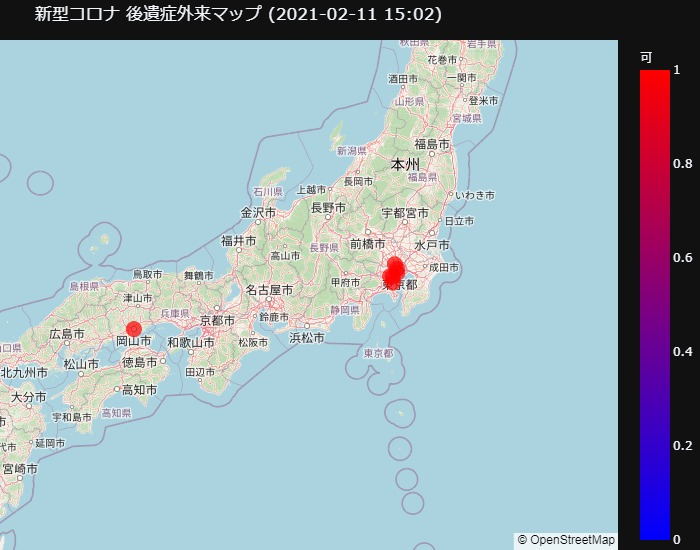
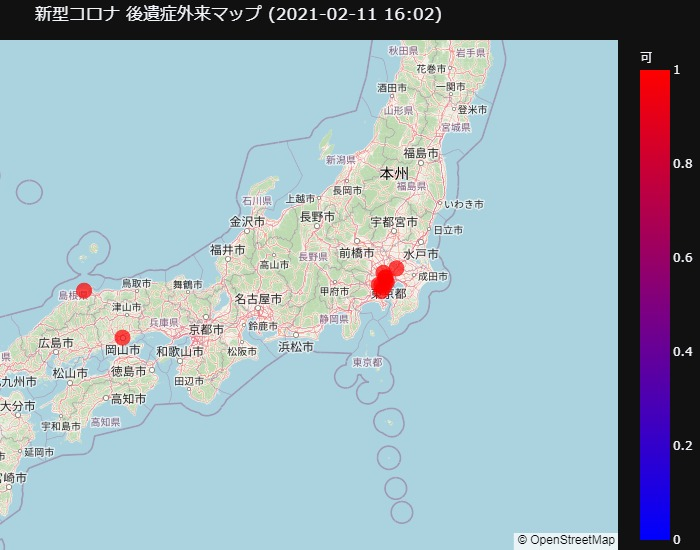
Updated with latest data.

diff --git a/docs/_includes/longcovid-map.html b/docs/_includes/longcovid-map.html
@@ -1,1 +1,1 @@
-<div>                            <div id="592b5aab-4c00-4bf9-a63b-da9fe03f601c" class="plotly-graph-div" style="height:550px; width:100%;"></div>            <script type="text/javascript">                                    window.PLOTLYENV=window.PLOTLYENV || {};                                    if (document.getElementById("592b5aab-4c00-4bf9-a63b-da9fe03f601c")) {                    Plotly.newPlot(                        "592b5aab-4c00-4bf9-a63b-da9fe03f601c",                        [{"customdata": [["\u53ef", "-", "\u521d\u8a3a\u3067\u3082\u53ef"], ["-", "-", "2\u301c3\u30ab\u6708\u7d4c\u904e\u3001\u8af8\u75c7\u72b6\u6709"], ["\u53ef", "-", "-"], ["-", "\u5fc5\u8981", "2\u30ab\u6708\u4ee5\u4e0a\u7d4c\u904e"], ["-", "-", "\u6765\u9662\u304c\u57fa\u672c"], ["\u53ef", "-", "-"], ["-", "\u5fc5\u8981", "1\u30ab\u6708\u4ee5\u4e0a\u7d4c\u904e"], ["-", "-", "-"]], "hovertemplate": "<b>%{hovertext}</b><br><br>\u53ef=%{marker.color}<br>\u7def\u5ea6=%{lat}<br>\u7d4c\u5ea6=%{lon}<br>\u30aa\u30f3\u30e9\u30a4\u30f3=%{customdata[0]}<br>\u7d39\u4ecb\u72b6=%{customdata[1]}<br>\u6761\u4ef6=%{customdata[2]}<extra></extra>", "hovertext": ["\u30d2\u30e9\u30cf\u30bf\u30af\u30ea\u30cb\u30c3\u30af", "\u3082\u3061\u3065\u304d\u8033\u9f3b\u54bd\u5589\u79d1", "\u516c\u5e73\u75c5\u9662", "\u8056\u30de\u30ea\u30a2\u30f3\u30ca\u533b\u79d1\u5927\u5b66\u75c5\u9662", "\u6a2a\u6d5c\u304b\u3093\u3060\u3044\u3058\u30d5\u30a1\u30df\u30ea\u30fc\u30af\u30ea\u30cb\u30c3\u30af", "\u68b6\u304c\u8c37\u99c5\u524d\u30af\u30ea\u30cb\u30c3\u30af", "\u5ca1\u5c71\u5927\u5b66\u75c5\u9662", "\u5929\u795e\u3051\u3084\u304d\u30af\u30ea\u30cb\u30c3\u30af"], "lat": [35.66099144, 35.73184532, 35.81312769, 35.60075469, 35.48523182, 35.5937929, 34.65090647, 33.58607487], "legendgroup": "", "lon": [139.70208080000003, 139.7026409, 139.6527044, 139.5488861, 139.61037869999998, 139.6063036, 133.9206308, 130.3950466], "marker": {"color": [1, 1, 1, 1, 1, 1, 1, 0], "coloraxis": "coloraxis", "size": [1, 1, 1, 1, 1, 1, 1, 0], "sizemode": "area", "sizeref": 0.006944444444444444}, "mode": "markers", "name": "", "showlegend": false, "subplot": "mapbox", "type": "scattermapbox"}],                        {"coloraxis": {"colorbar": {"title": {"text": "\u53ef"}}, "colorscale": [[0.0, "rgb(0,0,255)"], [1.0, "rgb(255,0,0)"]]}, "height": 550, "legend": {"itemsizing": "constant", "tracegroupgap": 0}, "mapbox": {"center": {"lat": 35.26534065, "lon": 137.76733398750002}, "domain": {"x": [0.0, 1.0], "y": [0.0, 1.0]}, "style": "open-street-map", "zoom": 5}, "margin": {"b": 0, "l": 0, "r": 0, "t": 40}, "template": {"data": {"bar": [{"error_x": {"color": "#f2f5fa"}, "error_y": {"color": "#f2f5fa"}, "marker": {"line": {"color": "rgb(17,17,17)", "width": 0.5}}, "type": "bar"}], "barpolar": [{"marker": {"line": {"color": "rgb(17,17,17)", "width": 0.5}}, "type": "barpolar"}], "carpet": [{"aaxis": {"endlinecolor": "#A2B1C6", "gridcolor": "#506784", "linecolor": "#506784", "minorgridcolor": "#506784", "startlinecolor": "#A2B1C6"}, "baxis": {"endlinecolor": "#A2B1C6", "gridcolor": "#506784", "linecolor": "#506784", "minorgridcolor": "#506784", "startlinecolor": "#A2B1C6"}, "type": "carpet"}], "choropleth": [{"colorbar": {"outlinewidth": 0, "ticks": ""}, "type": "choropleth"}], "contour": [{"colorbar": {"outlinewidth": 0, "ticks": ""}, "colorscale": [[0.0, "#0d0887"], [0.1111111111111111, "#46039f"], [0.2222222222222222, "#7201a8"], [0.3333333333333333, "#9c179e"], [0.4444444444444444, "#bd3786"], [0.5555555555555556, "#d8576b"], [0.6666666666666666, "#ed7953"], [0.7777777777777778, "#fb9f3a"], [0.8888888888888888, "#fdca26"], [1.0, "#f0f921"]], "type": "contour"}], "contourcarpet": [{"colorbar": {"outlinewidth": 0, "ticks": ""}, "type": "contourcarpet"}], "heatmap": [{"colorbar": {"outlinewidth": 0, "ticks": ""}, "colorscale": [[0.0, "#0d0887"], [0.1111111111111111, "#46039f"], [0.2222222222222222, "#7201a8"], [0.3333333333333333, "#9c179e"], [0.4444444444444444, "#bd3786"], [0.5555555555555556, "#d8576b"], [0.6666666666666666, "#ed7953"], [0.7777777777777778, "#fb9f3a"], [0.8888888888888888, "#fdca26"], [1.0, "#f0f921"]], "type": "heatmap"}], "heatmapgl": [{"colorbar": {"outlinewidth": 0, "ticks": ""}, "colorscale": [[0.0, "#0d0887"], [0.1111111111111111, "#46039f"], [0.2222222222222222, "#7201a8"], [0.3333333333333333, "#9c179e"], [0.4444444444444444, "#bd3786"], [0.5555555555555556, "#d8576b"], [0.6666666666666666, "#ed7953"], [0.7777777777777778, "#fb9f3a"], [0.8888888888888888, "#fdca26"], [1.0, "#f0f921"]], "type": "heatmapgl"}], "histogram": [{"marker": {"colorbar": {"outlinewidth": 0, "ticks": ""}}, "type": "histogram"}], "histogram2d": [{"colorbar": {"outlinewidth": 0, "ticks": ""}, "colorscale": [[0.0, "#0d0887"], [0.1111111111111111, "#46039f"], [0.2222222222222222, "#7201a8"], [0.3333333333333333, "#9c179e"], [0.4444444444444444, "#bd3786"], [0.5555555555555556, "#d8576b"], [0.6666666666666666, "#ed7953"], [0.7777777777777778, "#fb9f3a"], [0.8888888888888888, "#fdca26"], [1.0, "#f0f921"]], "type": "histogram2d"}], "histogram2dcontour": [{"colorbar": {"outlinewidth": 0, "ticks": ""}, "colorscale": [[0.0, "#0d0887"], [0.1111111111111111, "#46039f"], [0.2222222222222222, "#7201a8"], [0.3333333333333333, "#9c179e"], [0.4444444444444444, "#bd3786"], [0.5555555555555556, "#d8576b"], [0.6666666666666666, "#ed7953"], [0.7777777777777778, "#fb9f3a"], [0.8888888888888888, "#fdca26"], [1.0, "#f0f921"]], "type": "histogram2dcontour"}], "mesh3d": [{"colorbar": {"outlinewidth": 0, "ticks": ""}, "type": "mesh3d"}], "parcoords": [{"line": {"colorbar": {"outlinewidth": 0, "ticks": ""}}, "type": "parcoords"}], "pie": [{"automargin": true, "type": "pie"}], "scatter": [{"marker": {"line": {"color": "#283442"}}, "type": "scatter"}], "scatter3d": [{"line": {"colorbar": {"outlinewidth": 0, "ticks": ""}}, "marker": {"colorbar": {"outlinewidth": 0, "ticks": ""}}, "type": "scatter3d"}], "scattercarpet": [{"marker": {"colorbar": {"outlinewidth": 0, "ticks": ""}}, "type": "scattercarpet"}], "scattergeo": [{"marker": {"colorbar": {"outlinewidth": 0, "ticks": ""}}, "type": "scattergeo"}], "scattergl": [{"marker": {"line": {"color": "#283442"}}, "type": "scattergl"}], "scattermapbox": [{"marker": {"colorbar": {"outlinewidth": 0, "ticks": ""}}, "type": "scattermapbox"}], "scatterpolar": [{"marker": {"colorbar": {"outlinewidth": 0, "ticks": ""}}, "type": "scatterpolar"}], "scatterpolargl": [{"marker": {"colorbar": {"outlinewidth": 0, "ticks": ""}}, "type": "scatterpolargl"}], "scatterternary": [{"marker": {"colorbar": {"outlinewidth": 0, "ticks": ""}}, "type": "scatterternary"}], "surface": [{"colorbar": {"outlinewidth": 0, "ticks": ""}, "colorscale": [[0.0, "#0d0887"], [0.1111111111111111, "#46039f"], [0.2222222222222222, "#7201a8"], [0.3333333333333333, "#9c179e"], [0.4444444444444444, "#bd3786"], [0.5555555555555556, "#d8576b"], [0.6666666666666666, "#ed7953"], [0.7777777777777778, "#fb9f3a"], [0.8888888888888888, "#fdca26"], [1.0, "#f0f921"]], "type": "surface"}], "table": [{"cells": {"fill": {"color": "#506784"}, "line": {"color": "rgb(17,17,17)"}}, "header": {"fill": {"color": "#2a3f5f"}, "line": {"color": "rgb(17,17,17)"}}, "type": "table"}]}, "layout": {"annotationdefaults": {"arrowcolor": "#f2f5fa", "arrowhead": 0, "arrowwidth": 1}, "autotypenumbers": "strict", "coloraxis": {"colorbar": {"outlinewidth": 0, "ticks": ""}}, "colorscale": {"diverging": [[0, "#8e0152"], [0.1, "#c51b7d"], [0.2, "#de77ae"], [0.3, "#f1b6da"], [0.4, "#fde0ef"], [0.5, "#f7f7f7"], [0.6, "#e6f5d0"], [0.7, "#b8e186"], [0.8, "#7fbc41"], [0.9, "#4d9221"], [1, "#276419"]], "sequential": [[0.0, "#0d0887"], [0.1111111111111111, "#46039f"], [0.2222222222222222, "#7201a8"], [0.3333333333333333, "#9c179e"], [0.4444444444444444, "#bd3786"], [0.5555555555555556, "#d8576b"], [0.6666666666666666, "#ed7953"], [0.7777777777777778, "#fb9f3a"], [0.8888888888888888, "#fdca26"], [1.0, "#f0f921"]], "sequentialminus": [[0.0, "#0d0887"], [0.1111111111111111, "#46039f"], [0.2222222222222222, "#7201a8"], [0.3333333333333333, "#9c179e"], [0.4444444444444444, "#bd3786"], [0.5555555555555556, "#d8576b"], [0.6666666666666666, "#ed7953"], [0.7777777777777778, "#fb9f3a"], [0.8888888888888888, "#fdca26"], [1.0, "#f0f921"]]}, "colorway": ["#636efa", "#EF553B", "#00cc96", "#ab63fa", "#FFA15A", "#19d3f3", "#FF6692", "#B6E880", "#FF97FF", "#FECB52"], "font": {"color": "#f2f5fa"}, "geo": {"bgcolor": "rgb(17,17,17)", "lakecolor": "rgb(17,17,17)", "landcolor": "rgb(17,17,17)", "showlakes": true, "showland": true, "subunitcolor": "#506784"}, "hoverlabel": {"align": "left"}, "hovermode": "closest", "mapbox": {"style": "dark"}, "paper_bgcolor": "rgb(17,17,17)", "plot_bgcolor": "rgb(17,17,17)", "polar": {"angularaxis": {"gridcolor": "#506784", "linecolor": "#506784", "ticks": ""}, "bgcolor": "rgb(17,17,17)", "radialaxis": {"gridcolor": "#506784", "linecolor": "#506784", "ticks": ""}}, "scene": {"xaxis": {"backgroundcolor": "rgb(17,17,17)", "gridcolor": "#506784", "gridwidth": 2, "linecolor": "#506784", "showbackground": true, "ticks": "", "zerolinecolor": "#C8D4E3"}, "yaxis": {"backgroundcolor": "rgb(17,17,17)", "gridcolor": "#506784", "gridwidth": 2, "linecolor": "#506784", "showbackground": true, "ticks": "", "zerolinecolor": "#C8D4E3"}, "zaxis": {"backgroundcolor": "rgb(17,17,17)", "gridcolor": "#506784", "gridwidth": 2, "linecolor": "#506784", "showbackground": true, "ticks": "", "zerolinecolor": "#C8D4E3"}}, "shapedefaults": {"line": {"color": "#f2f5fa"}}, "sliderdefaults": {"bgcolor": "#C8D4E3", "bordercolor": "rgb(17,17,17)", "borderwidth": 1, "tickwidth": 0}, "ternary": {"aaxis": {"gridcolor": "#506784", "linecolor": "#506784", "ticks": ""}, "baxis": {"gridcolor": "#506784", "linecolor": "#506784", "ticks": ""}, "bgcolor": "rgb(17,17,17)", "caxis": {"gridcolor": "#506784", "linecolor": "#506784", "ticks": ""}}, "title": {"x": 0.05}, "updatemenudefaults": {"bgcolor": "#506784", "borderwidth": 0}, "xaxis": {"automargin": true, "gridcolor": "#283442", "linecolor": "#506784", "ticks": "", "title": {"standoff": 15}, "zerolinecolor": "#283442", "zerolinewidth": 2}, "yaxis": {"automargin": true, "gridcolor": "#283442", "linecolor": "#506784", "ticks": "", "title": {"standoff": 15}, "zerolinecolor": "#283442", "zerolinewidth": 2}}}, "title": {"text": "\u65b0\u578b\u30b3\u30ed\u30ca \u5f8c\u907a\u75c7\u5916\u6765\u30de\u30c3\u30d7 (2021-02-11 15:02)"}},                        {"responsive": true}                    )                };                            </script>        </div>
+<div>                            <div id="f97fc2c1-4a85-456a-8148-ce885ed87648" class="plotly-graph-div" style="height:550px; width:100%;"></div>            <script type="text/javascript">                                    window.PLOTLYENV=window.PLOTLYENV || {};                                    if (document.getElementById("f97fc2c1-4a85-456a-8148-ce885ed87648")) {                    Plotly.newPlot(                        "f97fc2c1-4a85-456a-8148-ce885ed87648",                        [{"customdata": [["\u53ef", "-", "\u521d\u8a3a\u3067\u3082\u53ef"], ["-", "\u4e00\u65b9", "16\u6b73\u4ee5\u4e0a\u3001\u57fa\u672c\u306f\u6f22\u65b9"], ["-", "-", "2\u301c3\u30ab\u6708\u7d4c\u904e\u3001\u8af8\u75c7\u72b6\u6709"], ["\u53ef", "\u5fc5\u8981", "\u521d\u8a3a\u3067\u3082\u53ef"], ["\u53ef", "-", "-"], ["-", "-", "\u55c5\u899a\u5473\u899a\u969c\u5bb3\u5916\u6765"], ["-", "\u5fc5\u8981", "2\u30ab\u6708\u4ee5\u4e0a\u7d4c\u904e"], ["-", "-", "\u6765\u9662\u304c\u57fa\u672c"], ["\u53ef", "-", "-"], ["-", "-", "\u9694\u96e2\u671f\u9593\u7d42\u4e86"], ["-", "\u5fc5\u8981", "1\u30ab\u6708\u4ee5\u4e0a\u7d4c\u904e"], ["\u53ef", "-", "\u5bfe\u9762\u8a3a\u7642\u306e\u53ef\u80fd\u6027\u6709"], ["-", "-", "-"]], "hovertemplate": "<b>%{hovertext}</b><br><br>\u53ef=%{marker.color}<br>\u7def\u5ea6=%{lat}<br>\u7d4c\u5ea6=%{lon}<br>\u30aa\u30f3\u30e9\u30a4\u30f3=%{customdata[0]}<br>\u7d39\u4ecb\u72b6=%{customdata[1]}<br>\u6761\u4ef6=%{customdata[2]}<extra></extra>", "hovertext": ["\u30d2\u30e9\u30cf\u30bf\u30af\u30ea\u30cb\u30c3\u30af", "\u5bfa\u7530\u30af\u30ea\u30cb\u30c3\u30af", "\u3082\u3061\u3065\u304d\u8033\u9f3b\u54bd\u5589\u79d1", "\u5317\u91cc\u5927\u5b66\u6771\u6d0b\u533b\u5b66\u7dcf\u5408\u7814\u7a76\u6240", "\u516c\u5e73\u75c5\u9662", "\u30af\u30ea\u30cb\u30c3\u30af\u67cf\u306e\u8449", "\u8056\u30de\u30ea\u30a2\u30f3\u30ca\u533b\u79d1\u5927\u5b66\u75c5\u9662", "\u6a2a\u6d5c\u304b\u3093\u3060\u3044\u3058\u30d5\u30a1\u30df\u30ea\u30fc\u30af\u30ea\u30cb\u30c3\u30af", "\u68b6\u304c\u8c37\u99c5\u524d\u30af\u30ea\u30cb\u30c3\u30af", "\u65b0\u5ddd\u5d0e\u3080\u3089\u305b\u5185\u79d1\u5faa\u74b0\u5668\u5185\u79d1", "\u5ca1\u5c71\u5927\u5b66\u75c5\u9662", "\u798f\u7530\u5185\u79d1\u30af\u30ea\u30cb\u30c3\u30af", "\u5929\u795e\u3051\u3084\u304d\u30af\u30ea\u30cb\u30c3\u30af"], "lat": [35.66099144, 35.72952117, 35.73184532, 35.64615518, 35.81312769, 35.89270812, 35.60075469, 35.48523182, 35.5937929, 35.55188904, 34.65090647, 35.49501807, 33.58607487], "legendgroup": "", "lon": [139.70208080000003, 139.6931743, 139.7026409, 139.72627219999998, 139.6527044, 139.9377533, 139.5488861, 139.61037869999998, 139.6063036, 139.6629341, 133.9206308, 133.0761817, 130.3950466], "marker": {"color": [1, 1, 1, 1, 1, 1, 1, 1, 1, 1, 1, 1, 0], "coloraxis": "coloraxis", "size": [1, 1, 1, 1, 1, 1, 1, 1, 1, 1, 1, 1, 0], "sizemode": "area", "sizeref": 0.006944444444444444}, "mode": "markers", "name": "", "showlegend": false, "subplot": "mapbox", "type": "scattermapbox"}],                        {"coloraxis": {"colorbar": {"title": {"text": "\u53ef"}}, "colorscale": [[0.0, "rgb(0,0,255)"], [1.0, "rgb(255,0,0)"]]}, "height": 550, "legend": {"itemsizing": "constant", "tracegroupgap": 0}, "mapbox": {"center": {"lat": 35.418308983076926, "lon": 138.01807596153847}, "domain": {"x": [0.0, 1.0], "y": [0.0, 1.0]}, "style": "open-street-map", "zoom": 5}, "margin": {"b": 0, "l": 0, "r": 0, "t": 40}, "template": {"data": {"bar": [{"error_x": {"color": "#f2f5fa"}, "error_y": {"color": "#f2f5fa"}, "marker": {"line": {"color": "rgb(17,17,17)", "width": 0.5}}, "type": "bar"}], "barpolar": [{"marker": {"line": {"color": "rgb(17,17,17)", "width": 0.5}}, "type": "barpolar"}], "carpet": [{"aaxis": {"endlinecolor": "#A2B1C6", "gridcolor": "#506784", "linecolor": "#506784", "minorgridcolor": "#506784", "startlinecolor": "#A2B1C6"}, "baxis": {"endlinecolor": "#A2B1C6", "gridcolor": "#506784", "linecolor": "#506784", "minorgridcolor": "#506784", "startlinecolor": "#A2B1C6"}, "type": "carpet"}], "choropleth": [{"colorbar": {"outlinewidth": 0, "ticks": ""}, "type": "choropleth"}], "contour": [{"colorbar": {"outlinewidth": 0, "ticks": ""}, "colorscale": [[0.0, "#0d0887"], [0.1111111111111111, "#46039f"], [0.2222222222222222, "#7201a8"], [0.3333333333333333, "#9c179e"], [0.4444444444444444, "#bd3786"], [0.5555555555555556, "#d8576b"], [0.6666666666666666, "#ed7953"], [0.7777777777777778, "#fb9f3a"], [0.8888888888888888, "#fdca26"], [1.0, "#f0f921"]], "type": "contour"}], "contourcarpet": [{"colorbar": {"outlinewidth": 0, "ticks": ""}, "type": "contourcarpet"}], "heatmap": [{"colorbar": {"outlinewidth": 0, "ticks": ""}, "colorscale": [[0.0, "#0d0887"], [0.1111111111111111, "#46039f"], [0.2222222222222222, "#7201a8"], [0.3333333333333333, "#9c179e"], [0.4444444444444444, "#bd3786"], [0.5555555555555556, "#d8576b"], [0.6666666666666666, "#ed7953"], [0.7777777777777778, "#fb9f3a"], [0.8888888888888888, "#fdca26"], [1.0, "#f0f921"]], "type": "heatmap"}], "heatmapgl": [{"colorbar": {"outlinewidth": 0, "ticks": ""}, "colorscale": [[0.0, "#0d0887"], [0.1111111111111111, "#46039f"], [0.2222222222222222, "#7201a8"], [0.3333333333333333, "#9c179e"], [0.4444444444444444, "#bd3786"], [0.5555555555555556, "#d8576b"], [0.6666666666666666, "#ed7953"], [0.7777777777777778, "#fb9f3a"], [0.8888888888888888, "#fdca26"], [1.0, "#f0f921"]], "type": "heatmapgl"}], "histogram": [{"marker": {"colorbar": {"outlinewidth": 0, "ticks": ""}}, "type": "histogram"}], "histogram2d": [{"colorbar": {"outlinewidth": 0, "ticks": ""}, "colorscale": [[0.0, "#0d0887"], [0.1111111111111111, "#46039f"], [0.2222222222222222, "#7201a8"], [0.3333333333333333, "#9c179e"], [0.4444444444444444, "#bd3786"], [0.5555555555555556, "#d8576b"], [0.6666666666666666, "#ed7953"], [0.7777777777777778, "#fb9f3a"], [0.8888888888888888, "#fdca26"], [1.0, "#f0f921"]], "type": "histogram2d"}], "histogram2dcontour": [{"colorbar": {"outlinewidth": 0, "ticks": ""}, "colorscale": [[0.0, "#0d0887"], [0.1111111111111111, "#46039f"], [0.2222222222222222, "#7201a8"], [0.3333333333333333, "#9c179e"], [0.4444444444444444, "#bd3786"], [0.5555555555555556, "#d8576b"], [0.6666666666666666, "#ed7953"], [0.7777777777777778, "#fb9f3a"], [0.8888888888888888, "#fdca26"], [1.0, "#f0f921"]], "type": "histogram2dcontour"}], "mesh3d": [{"colorbar": {"outlinewidth": 0, "ticks": ""}, "type": "mesh3d"}], "parcoords": [{"line": {"colorbar": {"outlinewidth": 0, "ticks": ""}}, "type": "parcoords"}], "pie": [{"automargin": true, "type": "pie"}], "scatter": [{"marker": {"line": {"color": "#283442"}}, "type": "scatter"}], "scatter3d": [{"line": {"colorbar": {"outlinewidth": 0, "ticks": ""}}, "marker": {"colorbar": {"outlinewidth": 0, "ticks": ""}}, "type": "scatter3d"}], "scattercarpet": [{"marker": {"colorbar": {"outlinewidth": 0, "ticks": ""}}, "type": "scattercarpet"}], "scattergeo": [{"marker": {"colorbar": {"outlinewidth": 0, "ticks": ""}}, "type": "scattergeo"}], "scattergl": [{"marker": {"line": {"color": "#283442"}}, "type": "scattergl"}], "scattermapbox": [{"marker": {"colorbar": {"outlinewidth": 0, "ticks": ""}}, "type": "scattermapbox"}], "scatterpolar": [{"marker": {"colorbar": {"outlinewidth": 0, "ticks": ""}}, "type": "scatterpolar"}], "scatterpolargl": [{"marker": {"colorbar": {"outlinewidth": 0, "ticks": ""}}, "type": "scatterpolargl"}], "scatterternary": [{"marker": {"colorbar": {"outlinewidth": 0, "ticks": ""}}, "type": "scatterternary"}], "surface": [{"colorbar": {"outlinewidth": 0, "ticks": ""}, "colorscale": [[0.0, "#0d0887"], [0.1111111111111111, "#46039f"], [0.2222222222222222, "#7201a8"], [0.3333333333333333, "#9c179e"], [0.4444444444444444, "#bd3786"], [0.5555555555555556, "#d8576b"], [0.6666666666666666, "#ed7953"], [0.7777777777777778, "#fb9f3a"], [0.8888888888888888, "#fdca26"], [1.0, "#f0f921"]], "type": "surface"}], "table": [{"cells": {"fill": {"color": "#506784"}, "line": {"color": "rgb(17,17,17)"}}, "header": {"fill": {"color": "#2a3f5f"}, "line": {"color": "rgb(17,17,17)"}}, "type": "table"}]}, "layout": {"annotationdefaults": {"arrowcolor": "#f2f5fa", "arrowhead": 0, "arrowwidth": 1}, "autotypenumbers": "strict", "coloraxis": {"colorbar": {"outlinewidth": 0, "ticks": ""}}, "colorscale": {"diverging": [[0, "#8e0152"], [0.1, "#c51b7d"], [0.2, "#de77ae"], [0.3, "#f1b6da"], [0.4, "#fde0ef"], [0.5, "#f7f7f7"], [0.6, "#e6f5d0"], [0.7, "#b8e186"], [0.8, "#7fbc41"], [0.9, "#4d9221"], [1, "#276419"]], "sequential": [[0.0, "#0d0887"], [0.1111111111111111, "#46039f"], [0.2222222222222222, "#7201a8"], [0.3333333333333333, "#9c179e"], [0.4444444444444444, "#bd3786"], [0.5555555555555556, "#d8576b"], [0.6666666666666666, "#ed7953"], [0.7777777777777778, "#fb9f3a"], [0.8888888888888888, "#fdca26"], [1.0, "#f0f921"]], "sequentialminus": [[0.0, "#0d0887"], [0.1111111111111111, "#46039f"], [0.2222222222222222, "#7201a8"], [0.3333333333333333, "#9c179e"], [0.4444444444444444, "#bd3786"], [0.5555555555555556, "#d8576b"], [0.6666666666666666, "#ed7953"], [0.7777777777777778, "#fb9f3a"], [0.8888888888888888, "#fdca26"], [1.0, "#f0f921"]]}, "colorway": ["#636efa", "#EF553B", "#00cc96", "#ab63fa", "#FFA15A", "#19d3f3", "#FF6692", "#B6E880", "#FF97FF", "#FECB52"], "font": {"color": "#f2f5fa"}, "geo": {"bgcolor": "rgb(17,17,17)", "lakecolor": "rgb(17,17,17)", "landcolor": "rgb(17,17,17)", "showlakes": true, "showland": true, "subunitcolor": "#506784"}, "hoverlabel": {"align": "left"}, "hovermode": "closest", "mapbox": {"style": "dark"}, "paper_bgcolor": "rgb(17,17,17)", "plot_bgcolor": "rgb(17,17,17)", "polar": {"angularaxis": {"gridcolor": "#506784", "linecolor": "#506784", "ticks": ""}, "bgcolor": "rgb(17,17,17)", "radialaxis": {"gridcolor": "#506784", "linecolor": "#506784", "ticks": ""}}, "scene": {"xaxis": {"backgroundcolor": "rgb(17,17,17)", "gridcolor": "#506784", "gridwidth": 2, "linecolor": "#506784", "showbackground": true, "ticks": "", "zerolinecolor": "#C8D4E3"}, "yaxis": {"backgroundcolor": "rgb(17,17,17)", "gridcolor": "#506784", "gridwidth": 2, "linecolor": "#506784", "showbackground": true, "ticks": "", "zerolinecolor": "#C8D4E3"}, "zaxis": {"backgroundcolor": "rgb(17,17,17)", "gridcolor": "#506784", "gridwidth": 2, "linecolor": "#506784", "showbackground": true, "ticks": "", "zerolinecolor": "#C8D4E3"}}, "shapedefaults": {"line": {"color": "#f2f5fa"}}, "sliderdefaults": {"bgcolor": "#C8D4E3", "bordercolor": "rgb(17,17,17)", "borderwidth": 1, "tickwidth": 0}, "ternary": {"aaxis": {"gridcolor": "#506784", "linecolor": "#506784", "ticks": ""}, "baxis": {"gridcolor": "#506784", "linecolor": "#506784", "ticks": ""}, "bgcolor": "rgb(17,17,17)", "caxis": {"gridcolor": "#506784", "linecolor": "#506784", "ticks": ""}}, "title": {"x": 0.05}, "updatemenudefaults": {"bgcolor": "#506784", "borderwidth": 0}, "xaxis": {"automargin": true, "gridcolor": "#283442", "linecolor": "#506784", "ticks": "", "title": {"standoff": 15}, "zerolinecolor": "#283442", "zerolinewidth": 2}, "yaxis": {"automargin": true, "gridcolor": "#283442", "linecolor": "#506784", "ticks": "", "title": {"standoff": 15}, "zerolinecolor": "#283442", "zerolinewidth": 2}}}, "title": {"text": "\u65b0\u578b\u30b3\u30ed\u30ca \u5f8c\u907a\u75c7\u5916\u6765\u30de\u30c3\u30d7 (2021-02-11 16:02)"}},                        {"responsive": true}                    )                };                            </script>        </div>

diff --git a/docs/_includes/longcovid-table.html b/docs/_includes/longcovid-table.html
@@ -1,12 +1,12 @@
 <style>
-.MapsTblColNo { width:  80px; }
-.MapsTblColSt { width: 100px; }
+.MapsTblColNo { width:  70px; }
+.MapsTblColSt { width:  90px; }
 .MapsTblColNm { width: 280px; }
-.MapsTblColEn { width:  80px; }
-.MapsTblColOL { width: 100px; }
-.MapsTblColRS { width:  80px; }
-.MapsTblColCd { width: 150px; }
-.MapsTblColHP { width:  60px; }
+.MapsTblColEn { width:  70px; }
+.MapsTblColOL { width:  70px; }
+.MapsTblColRS { width:  70px; }
+.MapsTblColCd { width: 160px; }
+.MapsTblColHP { width:  50px; }
 </style>
 <table border="0">
   <thead style="display: block;" bgcolor="#000000">
@@ -23,11 +23,16 @@
   </thead>
   <tbody style="display: block; overflow-x: hidden; overflow-y: scroll; height: 300px;">
 <tr bgcolor="#606060"><td class="MapsTblColNo">関東</td><td class="MapsTblColSt">東京都</td><td class="MapsTblColNm">ヒラハタクリニック</td><td class="MapsTblColEn">1</td><td class="MapsTblColOL">可</td><td class="MapsTblColRS">-</td><td class="MapsTblColCd">初診でも可</td><td class="MapsTblColHP"><a href="https://www.hirahata-clinic.or.jp/covid19">HP</a></td></tr>
-<tr bgcolor="#000000"><td class="MapsTblColNo">関東</td><td class="MapsTblColSt">東京都</td><td class="MapsTblColNm">もちづき耳鼻咽喉科</td><td class="MapsTblColEn">1</td><td class="MapsTblColOL">-</td><td class="MapsTblColRS">-</td><td class="MapsTblColCd">2〜3カ月経過、諸症状有</td><td class="MapsTblColHP"><a href="http://www.mochizuki-jibika.com/blog/2021/01/post-128-763420.html">HP</a></td></tr>
+<tr bgcolor="#000000"><td class="MapsTblColNo">関東</td><td class="MapsTblColSt">東京都</td><td class="MapsTblColNm">寺田クリニック</td><td class="MapsTblColEn">1</td><td class="MapsTblColOL">-</td><td class="MapsTblColRS">一方</td><td class="MapsTblColCd">16歳以上、基本は漢方</td><td class="MapsTblColHP"><a href="https://sports-clinic.com/archives/2036">HP</a></td></tr>
+<tr bgcolor="#606060"><td class="MapsTblColNo">関東</td><td class="MapsTblColSt">東京都</td><td class="MapsTblColNm">もちづき耳鼻咽喉科</td><td class="MapsTblColEn">1</td><td class="MapsTblColOL">-</td><td class="MapsTblColRS">-</td><td class="MapsTblColCd">2〜3カ月経過、諸症状有</td><td class="MapsTblColHP"><a href="http://www.mochizuki-jibika.com/blog/2021/01/post-128-763420.html">HP</a></td></tr>
+<tr bgcolor="#000000"><td class="MapsTblColNo">関東</td><td class="MapsTblColSt">東京都</td><td class="MapsTblColNm">北里大学東洋医学総合研究所</td><td class="MapsTblColEn">1</td><td class="MapsTblColOL">可</td><td class="MapsTblColRS">必要</td><td class="MapsTblColCd">初診でも可</td><td class="MapsTblColHP"><a href="https://www.kitasato-u.ac.jp/toui-ken/center/online_cold.html">HP</a></td></tr>
 <tr bgcolor="#606060"><td class="MapsTblColNo">関東</td><td class="MapsTblColSt">埼玉県</td><td class="MapsTblColNm">公平病院</td><td class="MapsTblColEn">1</td><td class="MapsTblColOL">可</td><td class="MapsTblColRS">-</td><td class="MapsTblColCd">-</td><td class="MapsTblColHP"><a href="https://kodaira.life/covid19/long-covid.php">HP</a></td></tr>
-<tr bgcolor="#000000"><td class="MapsTblColNo">関東</td><td class="MapsTblColSt">神奈川県</td><td class="MapsTblColNm">聖マリアンナ医科大学病院</td><td class="MapsTblColEn">1</td><td class="MapsTblColOL">-</td><td class="MapsTblColRS">必要</td><td class="MapsTblColCd">2カ月以上経過</td><td class="MapsTblColHP"><a href="https://www.marianna-u.ac.jp/hospital/kanja/specialty/specialty_24.html">HP</a></td></tr>
-<tr bgcolor="#606060"><td class="MapsTblColNo">関東</td><td class="MapsTblColSt">神奈川県</td><td class="MapsTblColNm">横浜かんだいじファミリークリニック</td><td class="MapsTblColEn">1</td><td class="MapsTblColOL">-</td><td class="MapsTblColRS">-</td><td class="MapsTblColCd">来院が基本</td><td class="MapsTblColHP"><a href="https://yokohama-kandaiji-family-clinic.jp/LONG-COVID">HP</a></td></tr>
-<tr bgcolor="#000000"><td class="MapsTblColNo">関東</td><td class="MapsTblColSt">神奈川県</td><td class="MapsTblColNm">梶が谷駅前クリニック</td><td class="MapsTblColEn">1</td><td class="MapsTblColOL">可</td><td class="MapsTblColRS">-</td><td class="MapsTblColCd">-</td><td class="MapsTblColHP"><a href="https://kajigayaekimaenaika-clinic.com">HP</a></td></tr>
+<tr bgcolor="#000000"><td class="MapsTblColNo">関東</td><td class="MapsTblColSt">千葉県</td><td class="MapsTblColNm">クリニック柏の葉</td><td class="MapsTblColEn">1</td><td class="MapsTblColOL">-</td><td class="MapsTblColRS">-</td><td class="MapsTblColCd">嗅覚味覚障害外来</td><td class="MapsTblColHP"><a href="https://cl-kashiwanoha.jp/category/news/#no20210205083016">HP</a></td></tr>
+<tr bgcolor="#606060"><td class="MapsTblColNo">関東</td><td class="MapsTblColSt">神奈川県</td><td class="MapsTblColNm">聖マリアンナ医科大学病院</td><td class="MapsTblColEn">1</td><td class="MapsTblColOL">-</td><td class="MapsTblColRS">必要</td><td class="MapsTblColCd">2カ月以上経過</td><td class="MapsTblColHP"><a href="https://www.marianna-u.ac.jp/hospital/kanja/specialty/specialty_24.html">HP</a></td></tr>
+<tr bgcolor="#000000"><td class="MapsTblColNo">関東</td><td class="MapsTblColSt">神奈川県</td><td class="MapsTblColNm">横浜かんだいじファミリークリニック</td><td class="MapsTblColEn">1</td><td class="MapsTblColOL">-</td><td class="MapsTblColRS">-</td><td class="MapsTblColCd">来院が基本</td><td class="MapsTblColHP"><a href="https://yokohama-kandaiji-family-clinic.jp/LONG-COVID">HP</a></td></tr>
+<tr bgcolor="#606060"><td class="MapsTblColNo">関東</td><td class="MapsTblColSt">神奈川県</td><td class="MapsTblColNm">梶が谷駅前クリニック</td><td class="MapsTblColEn">1</td><td class="MapsTblColOL">可</td><td class="MapsTblColRS">-</td><td class="MapsTblColCd">-</td><td class="MapsTblColHP"><a href="https://kajigayaekimaenaika-clinic.com">HP</a></td></tr>
+<tr bgcolor="#000000"><td class="MapsTblColNo">関東</td><td class="MapsTblColSt">神奈川県</td><td class="MapsTblColNm">新川崎むらせ内科循環器内科</td><td class="MapsTblColEn">1</td><td class="MapsTblColOL">-</td><td class="MapsTblColRS">-</td><td class="MapsTblColCd">隔離期間終了</td><td class="MapsTblColHP"><a href="http://shinkawasaki-murase.com/blog/2021/02/01/">HP</a></td></tr>
 <tr bgcolor="#606060"><td class="MapsTblColNo">中国</td><td class="MapsTblColSt">岡山県</td><td class="MapsTblColNm">岡山大学病院</td><td class="MapsTblColEn">1</td><td class="MapsTblColOL">-</td><td class="MapsTblColRS">必要</td><td class="MapsTblColCd">1カ月以上経過</td><td class="MapsTblColHP"><a href="http://medica.sanyonews.jp/article/18130">HP</a></td></tr>
-<tr bgcolor="#000000"><td class="MapsTblColNo">九州</td><td class="MapsTblColSt">福岡県</td><td class="MapsTblColNm">天神けやきクリニック</td><td class="MapsTblColEn">0</td><td class="MapsTblColOL">-</td><td class="MapsTblColRS">-</td><td class="MapsTblColCd">-</td><td class="MapsTblColHP"><a href="https://tenjinkeyaki.com/medical/medical39.html">HP</a></td></tr>
+<tr bgcolor="#000000"><td class="MapsTblColNo">中国</td><td class="MapsTblColSt">島根県</td><td class="MapsTblColNm">福田内科クリニック</td><td class="MapsTblColEn">1</td><td class="MapsTblColOL">可</td><td class="MapsTblColRS">-</td><td class="MapsTblColCd">対面診療の可能性有</td><td class="MapsTblColHP"><a href="https://clinics.medley.life/clinics/5ae2fe7eccbc572e33a34edd">HP</a></td></tr>
+<tr bgcolor="#606060"><td class="MapsTblColNo">九州</td><td class="MapsTblColSt">福岡県</td><td class="MapsTblColNm">天神けやきクリニック</td><td class="MapsTblColEn">0</td><td class="MapsTblColOL">-</td><td class="MapsTblColRS">-</td><td class="MapsTblColCd">-</td><td class="MapsTblColHP"><a href="https://tenjinkeyaki.com/medical/medical39.html">HP</a></td></tr>
 </tbody></table>
